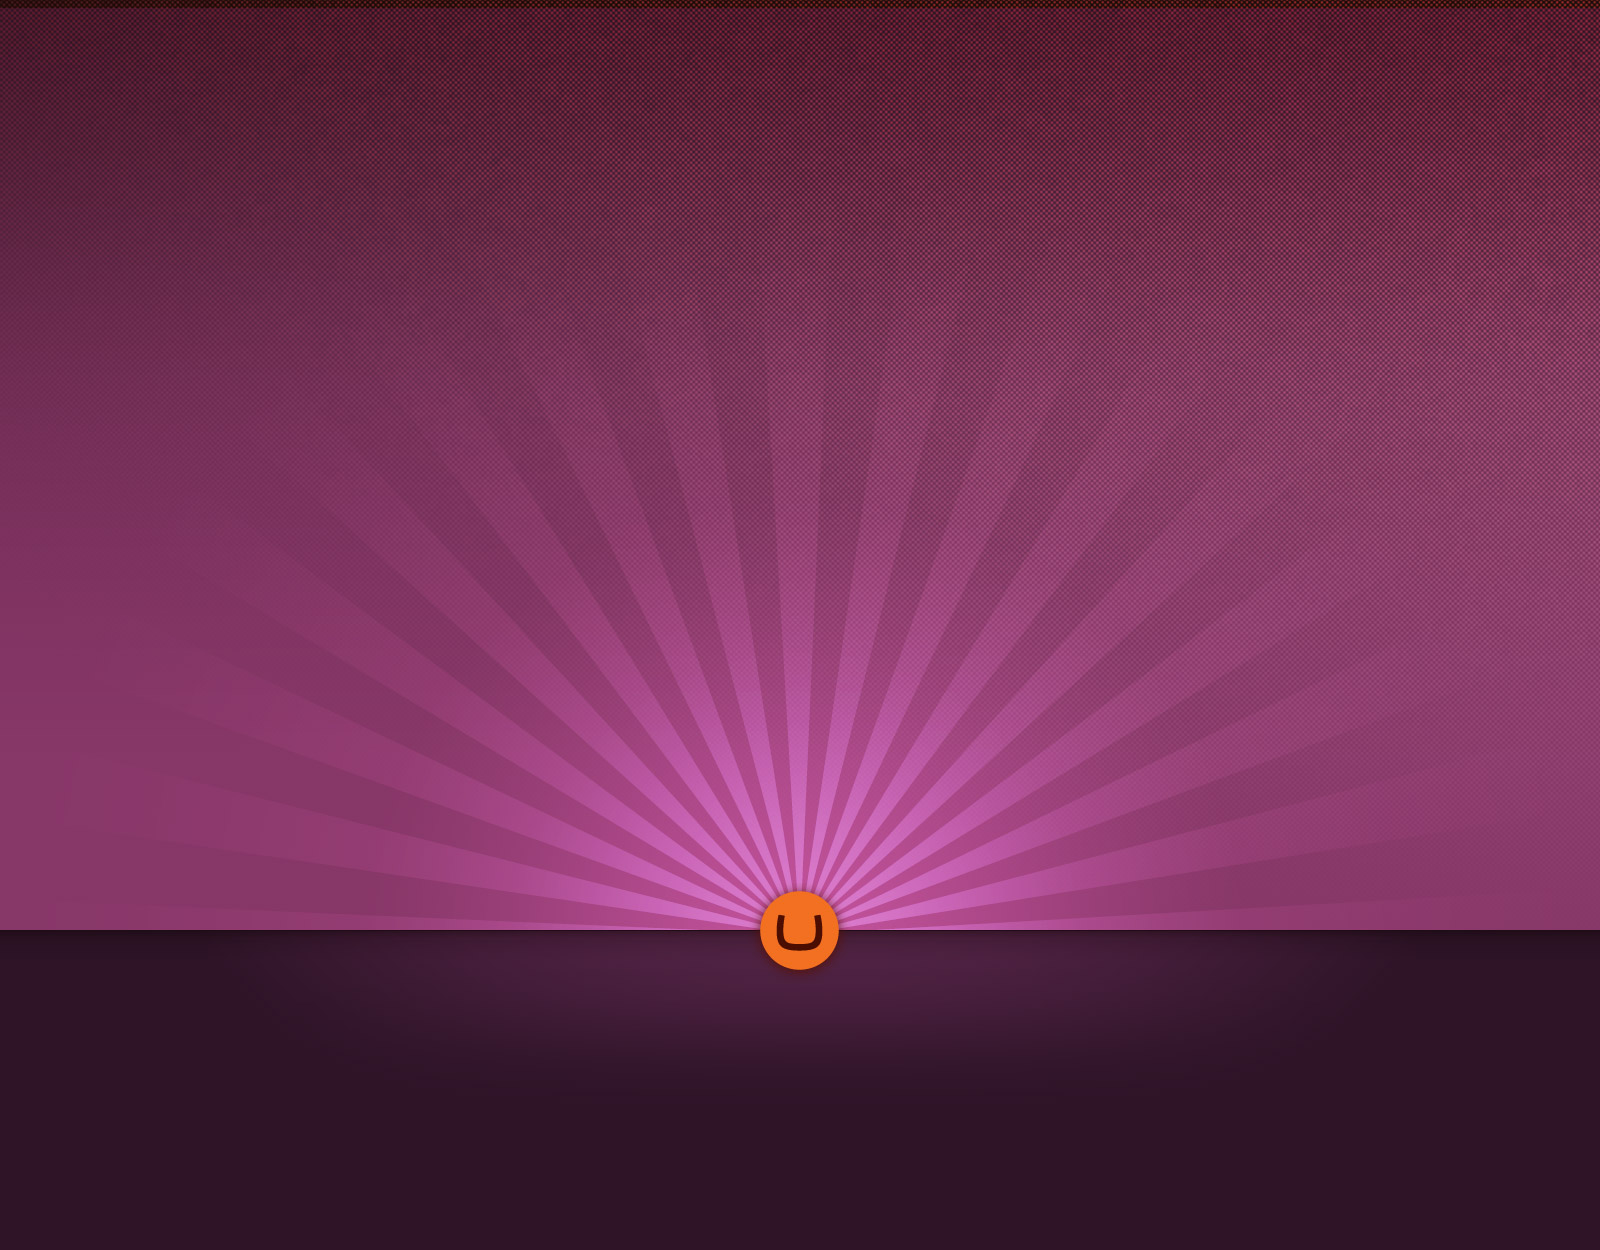
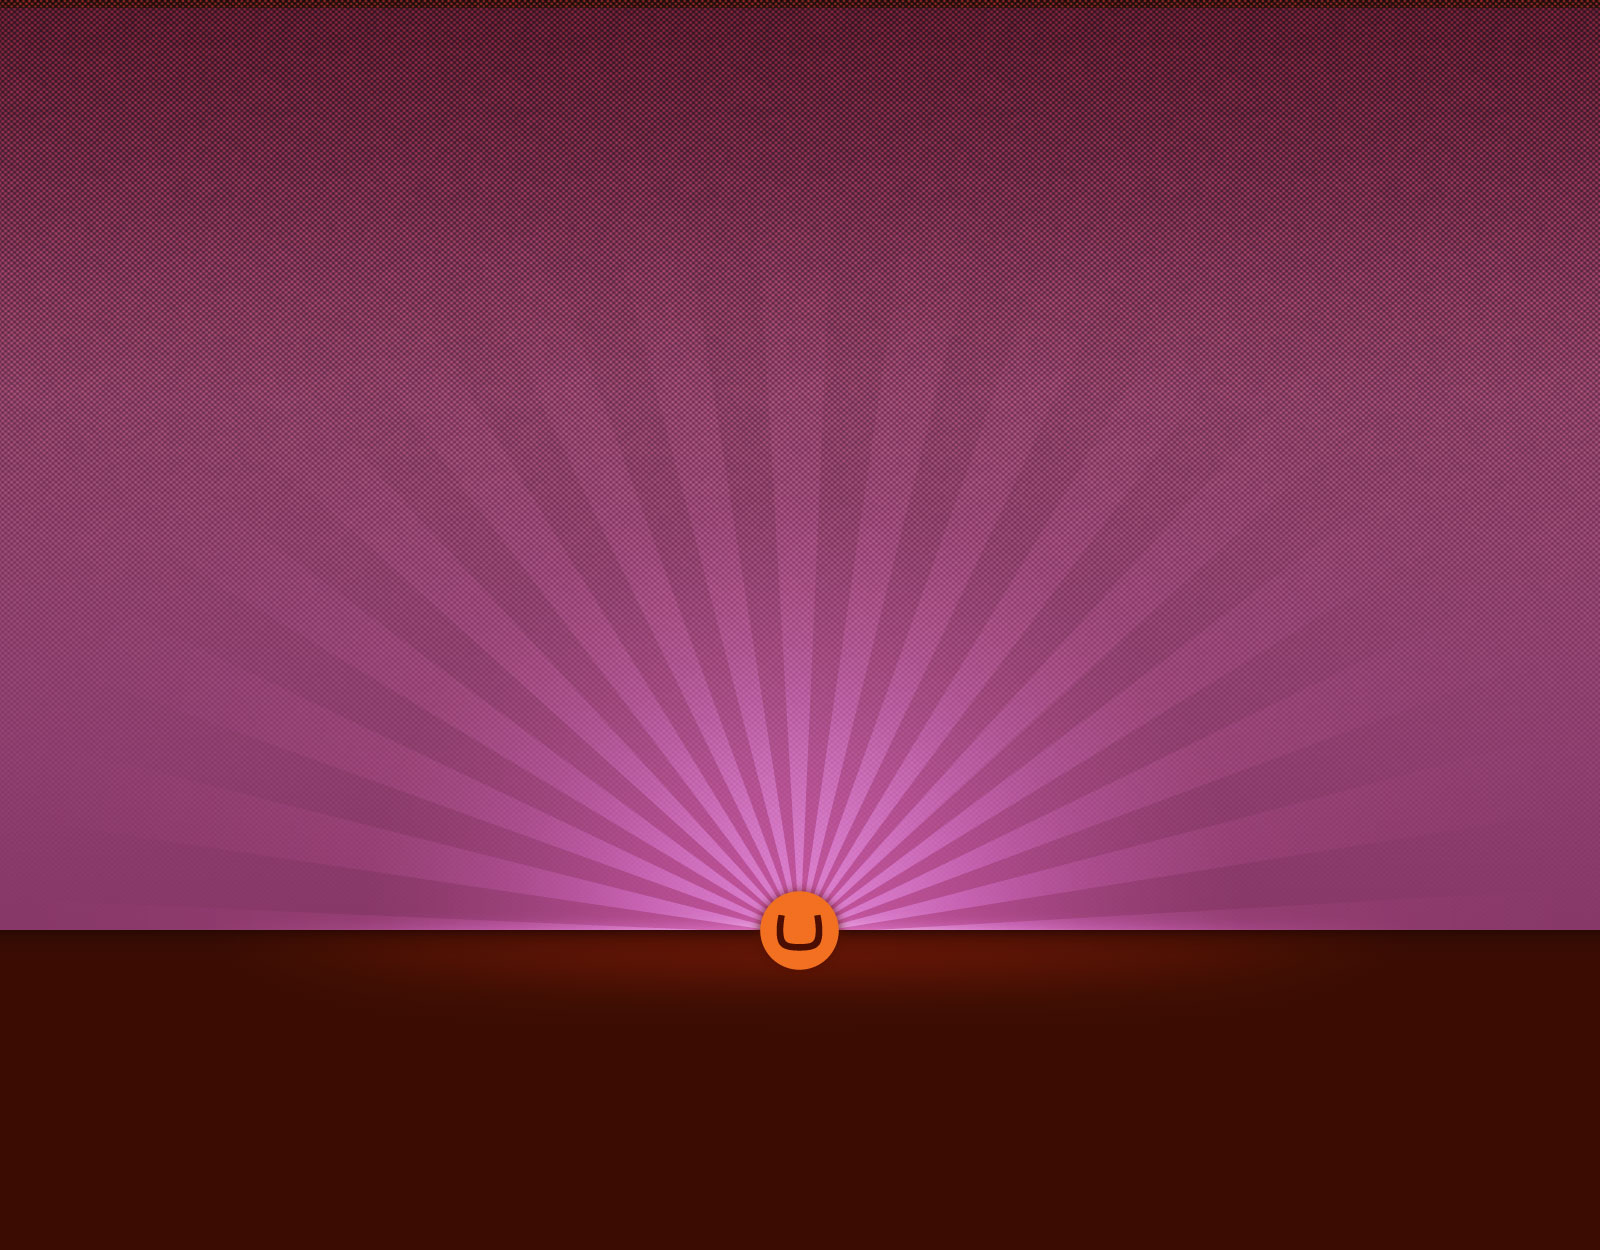
Updates to imagery, altered background layouts and fixed skin page layout problem
[TFS Changeset #81709]

diff --git a/umbraco/presentation/install/css/all.css b/umbraco/presentation/install/css/all.css
@@ -64,17 +64,6 @@ figure{display: block;}
 	width:100%;
 	height:1050px;
 }
-.bg-main .color1 .bg-r,
-.bg-main .color2 .bg-r,
-.bg-main .color3 .bg-r,
-.bg-main .color4 .bg-r,
-.bg-main .color5 .bg-r {
-	position:absolute;
-	top: 0;
-	left: 50%;
-	width:50%;
-	height:1050px;
-}
 .bg-main .color1 .bg-c,
 .bg-main .color2 .bg-c,
 .bg-main .color3 .bg-c,
@@ -88,24 +77,24 @@ figure{display: block;}
 }
 
 /* Color 1 */
-.bg-main .color1 { background:url(../images/bg-normal-cl.gif) repeat-x;}
-.bg-main .color1 .bg-r { background: url(../images/bg-normal-cr.gif) repeat-x;}
+.bg-main .color1 { background:url(../images/bg-normal-repeat.jpg) repeat-x;}
+
 .bg-main .color1 .bg-c { background:url(../images/bg-normal.jpg) no-repeat 50% 0;}
 /* Color 2 */
-.bg-main .color2 { background:#2e1427 url(../images/bg-simple-cl.gif) repeat-x;}
-.bg-main .color2 .bg-r { background:url(../images/bg-simple-cr.gif) repeat-x;}
+.bg-main .color2 { background:#2e1427 url(../images/bg-simple-repeat.jpg) repeat-x;}
+
 .bg-main .color2 .bg-c { background:url(../images/bg-simple.jpg) no-repeat 50% 0;}
 /* Color 3 */
-.bg-main .color3 { background:#01242d url(../images/bg-blog-cl.gif) repeat-x;}
-.bg-main .color3 .bg-r { background:url(../images/bg-blog-cr.gif) repeat-x;}
+.bg-main .color3 { background:#01242d url(../images/bg-blog-repeat.jpg) repeat-x;}
+
 .bg-main .color3 .bg-c { background:url(../images/bg-blog.jpg) no-repeat 50% 0;}
 /* Color 4 */
-.bg-main .color4 { background:#201c01 url(../images/bg-bhuiness-cl.gif) repeat-x;}
-.bg-main .color4 .bg-r { background:url(../images/bg-bhuiness-cr.gif) repeat-x;}
+.bg-main .color4 { background:#201c01 url(../images/bg-bhuiness-repeat.jpg) repeat-x;}
+
 .bg-main .color4 .bg-c { background:url(../images/bg-bhuiness.jpg) no-repeat 50% 0;}
 /* Color 5 */
-.bg-main .color5 { background:#3b0d03 url(../images/bg-personal-cl.gif) repeat-x;}
-.bg-main .color5 .bg-r { background:url(../images/bg-personal-cr.gif) repeat-x;}
+.bg-main .color5 { background:#3b0d03 url(../images/bg-personal-repeat.jpg) repeat-x;}
+
 .bg-main .color5 .bg-c { background:url(../images/bg-personal.jpg) no-repeat 50% 0;}
 .wholder:after {
 	clear: both;
@@ -298,7 +287,7 @@ figure{display: block;}
 .btn-get{height:59px;}
 .btn-get span{
 	height:118px;
-	width:228px;
+	width:230px;
 	background:url(../images/btn-get.png) no-repeat;
 }
 .btn-get:hover span{margin:-59px 0 0;}
@@ -323,7 +312,7 @@ figure{display: block;}
 .btn-continue{height:42px;}
 .btn-accept span{
 	height:84px;
-	width:213px;
+	width:215px;
 	background:url(../images/btn-accept.png) no-repeat;
 }
 .btn-accept:hover span,
@@ -366,11 +355,11 @@ figure{display: block;}
 	text-indent:-9999px;
 }
 .mini-tabset li.btn-yes a span{
-	width:77px;
+	width:79px;
 	background:url(../images/btn-yes.png) no-repeat;
 }
 .mini-tabset li.btn-no a span{
-	width:71px;
+	width:73px;
 	background:url(../images/btn-no.png) no-repeat;
 }
 .mini-tabset li a:hover span{margin:-42px 0 0;}
@@ -421,14 +410,14 @@ figure{display: block;}
 .btn-box .btn-install {
 	float:left;
 	margin:13px 0 0;
-	width:97px;
+	width:99px;
 	height:42px;
 	position: relative;
 	overflow:hidden;
 }
 .btn-box .btn-install span {
 	display: block;
-	width:97px;
+	width:99px;
 	height:42px;
 	text-indent:-9999px;
 	overflow:hidden;
@@ -483,7 +472,7 @@ figure{display: block;}
 }
 .ui-progressbar-value { background-image: url(../images/pbar-ani.gif) !important; }
 .btn-continue span{
-	width:120px;
+	width:122px;
 	height:84px;
 	background:url(../images/btn-continue.png) no-repeat;
 }
@@ -523,14 +512,14 @@ figure{display: block;}
 .btn-box .btn-create {
 	float:left;
 	margin:13px 0 0;
-	width:143px;
+	width:145px;
 	height:42px;
 	position:relative;
 	overflow:hidden;
 }
 .btn-box .btn-create span {
 	display: block;
-	width:143px;
+	width:145px;
 	height:42px;
 	overflow:hidden;
 	text-indent: -9999px;
@@ -816,7 +805,7 @@ figure{display: block;}
 .gal-drop .btn-preview:hover span{margin:-69px 0 0;}
 .gal-drop .btn-install-gal{height:68px;}
 .gal-drop .btn-install-gal span{
-	height:136px;
+	height:138px;
 	background:url(../images/btn-install-gal.png) no-repeat;
 }
 .gal-drop .btn-install-gal:hover span{margin:-68px 0 0;}
@@ -951,7 +940,7 @@ figure{display: block;}
 .lightbox .btn-box{padding-top:27px;}
 .lightbox .btn-install{
 	display:block;
-	width:97px;
+	width:99px;
 	height:42px;
 	overflow:hidden;
 	text-indent:-99999px;
@@ -995,7 +984,7 @@ figure{display: block;}
 	text-indent:-99999px;
 }
 .btn-web li.btn-set a span{
-	width:246px;
+	width:248px;
 	background:url(../images/btn-set.png) no-repeat;
 }
 .btn-web li.btn-preview-web a span{

diff --git a/umbraco/presentation/install/js/jquery.main.js b/umbraco/presentation/install/js/jquery.main.js
@@ -1,4 +1,4 @@
-jQuery(document).ready(function () {
+jQuery(document).ready(function () {
     initCustomForms();
     initButtonHover();
     clearInputs();
@@ -241,8 +241,8 @@ function initZoomList() {
 				function () {
 				    zoomImg = jQuery(this).find('.zoom-img');
 				    zoomImg.animate({
-				        width: imgWidth + stepZoom,
-				        height: imgHeight + stepZoom,
+				        width: 202,
+				        height: 275,
 				        top: -stepZoom / 2,
 				        left: -stepZoom / 2
 				    }, { queue: false, duration: _speed });
